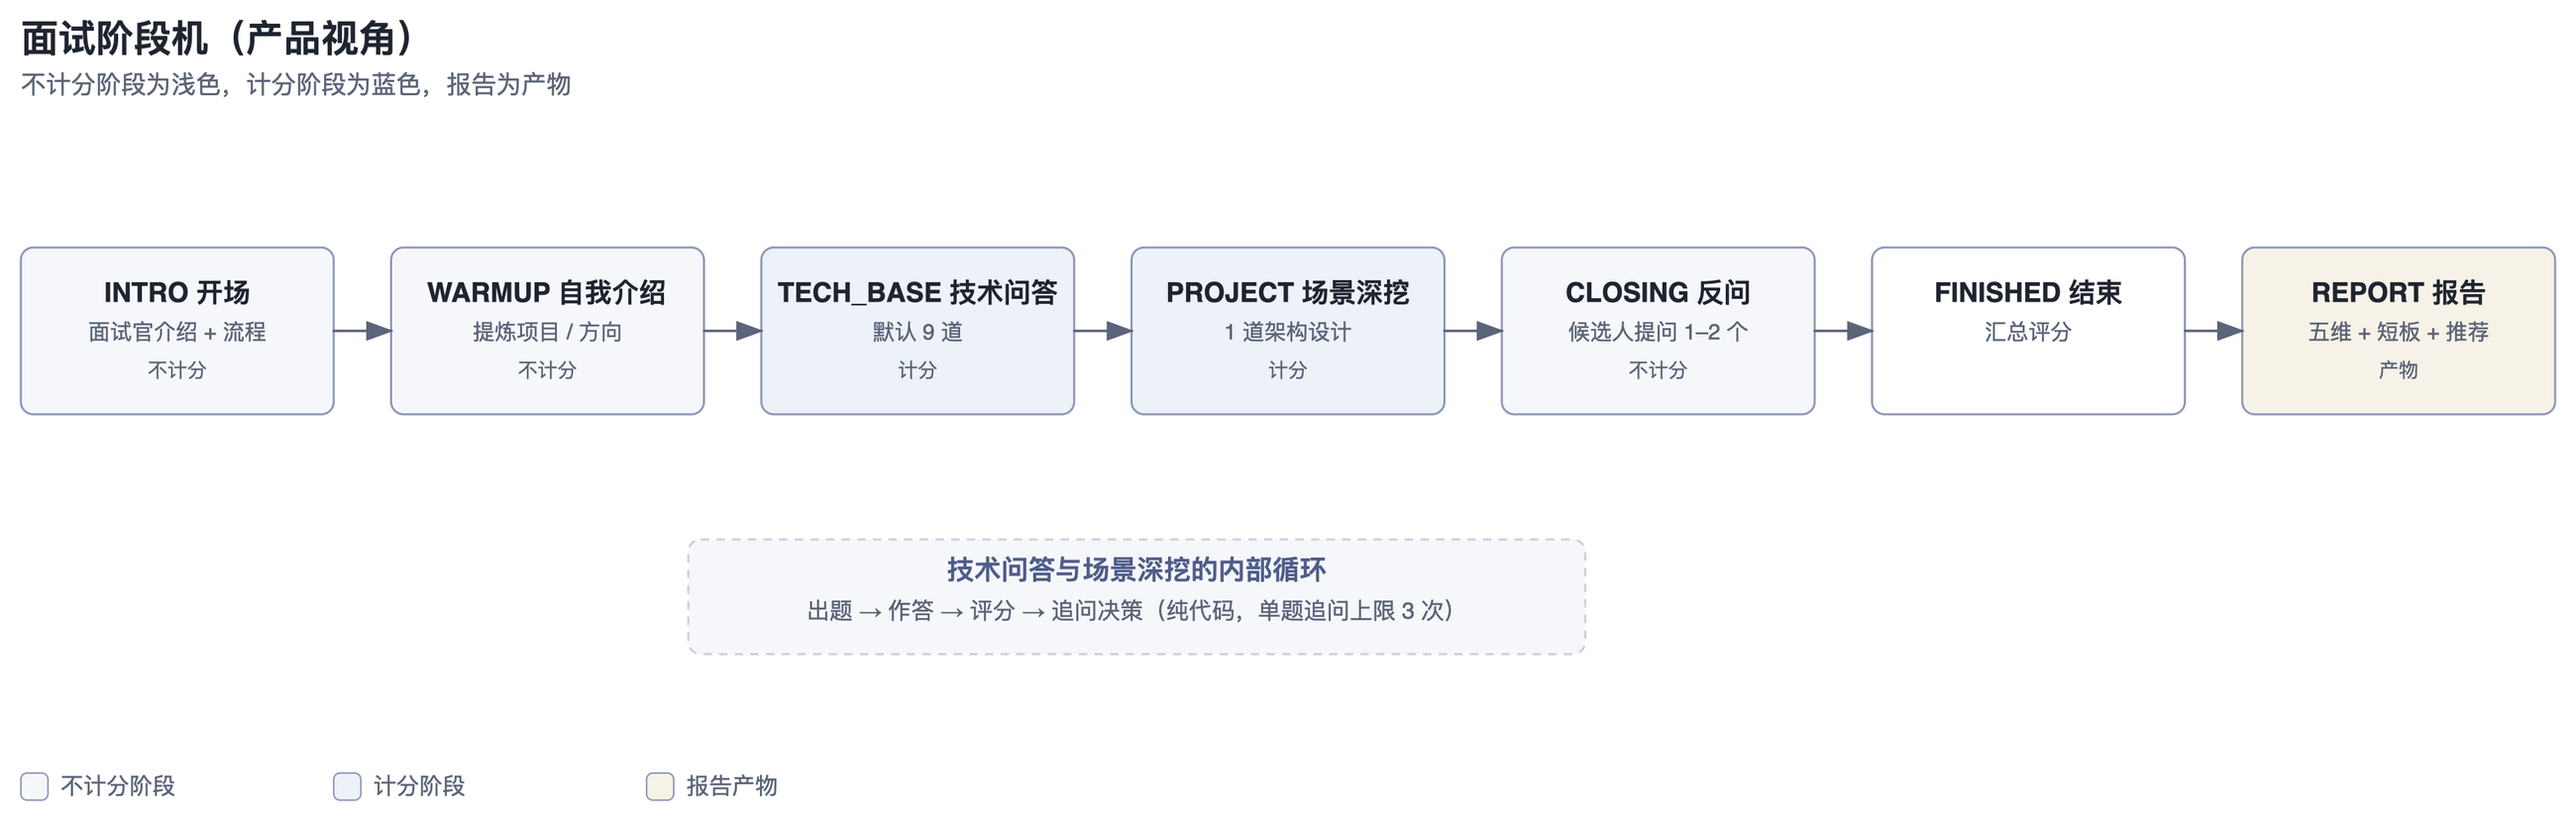
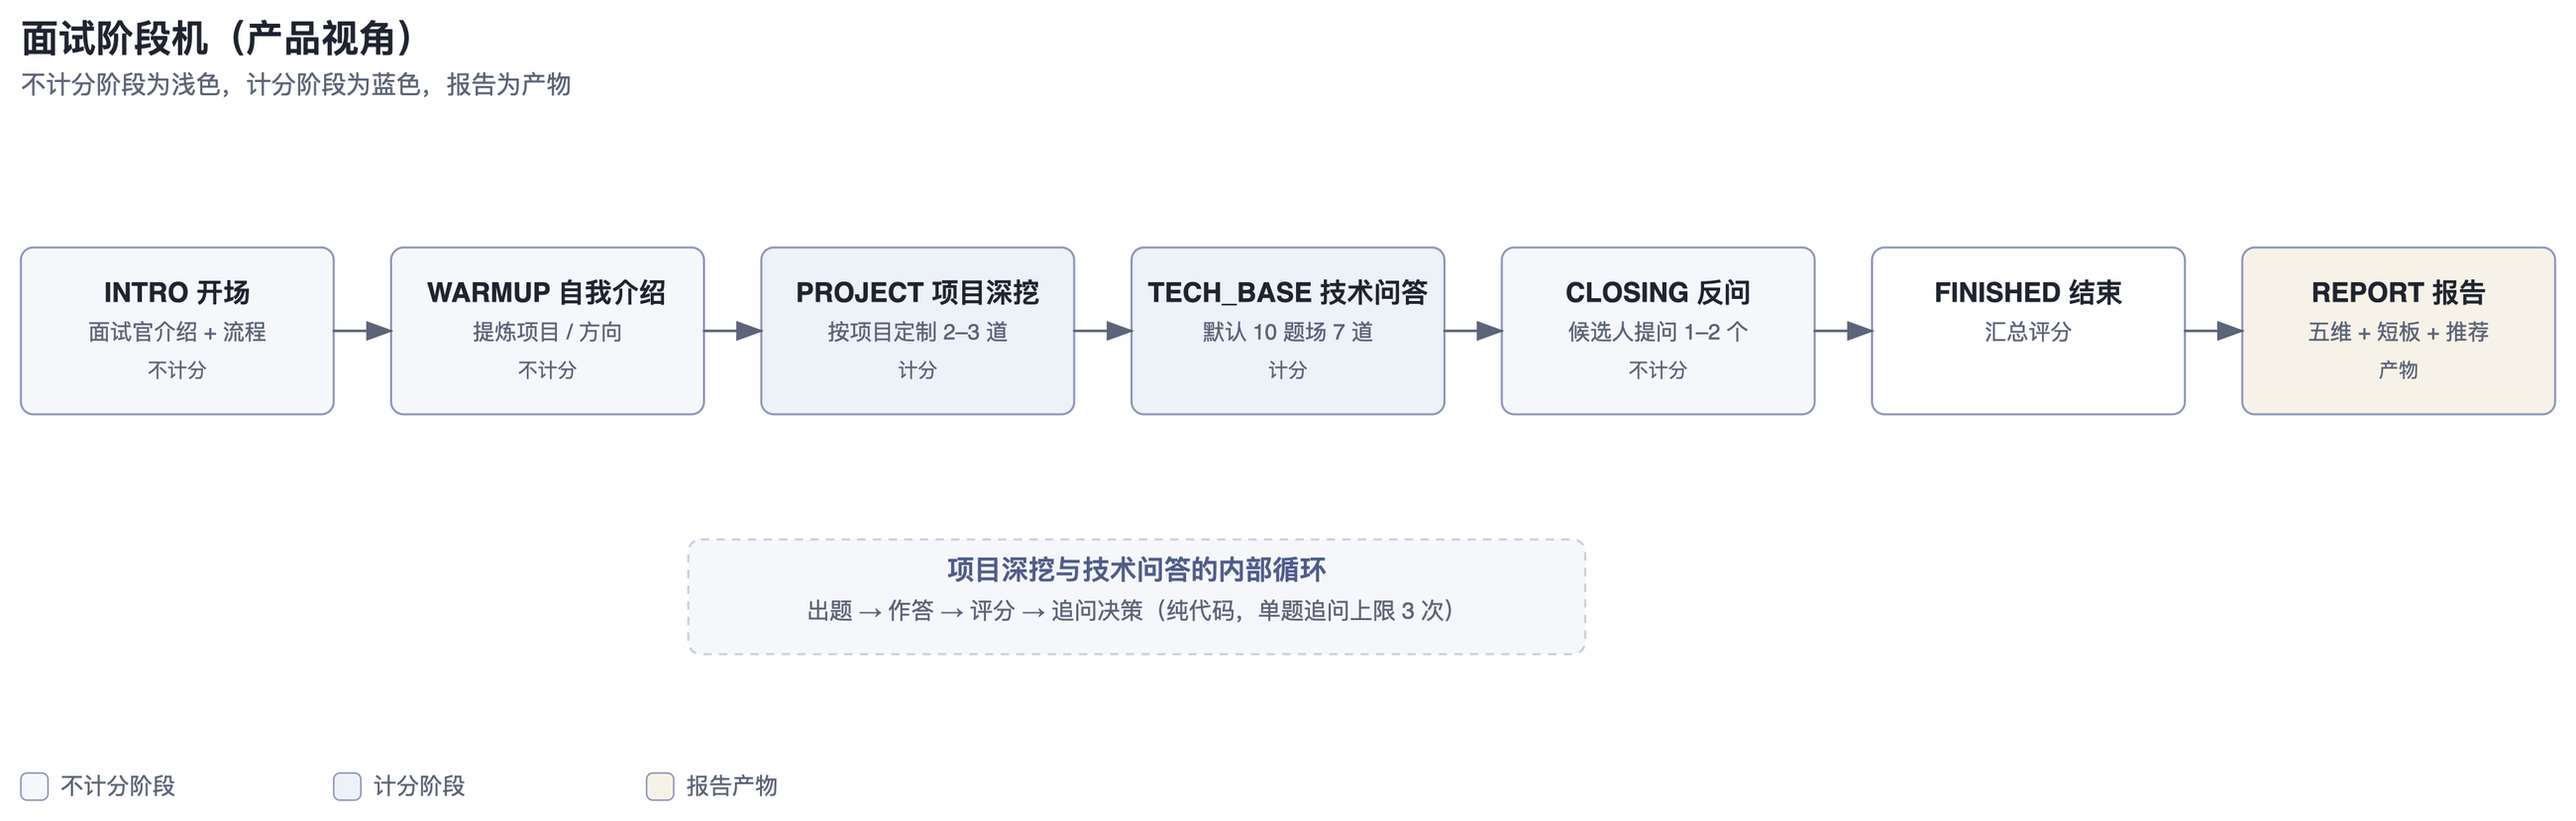
docs: 修正面试阶段顺序与题目组成
- 项目深挖在技术问答之前；默认 10 题场约 3 项目 + 7 技术
- PRD 升到 v1.2（2026-11-11）
- 同步更新面试阶段图（SVG + PNG）

Changed region(s): [[0.4362, 0.3317, 0.5608, 0.4222], [0.3115, 0.3317, 0.405, 0.4222], [0.3738, 0.6634, 0.4673, 0.7238]]

diff --git a/docs/PRD.md b/docs/PRD.md
@@ -1,6 +1,6 @@
 # PRD：Marda 码达 — Agent 智能面试学习平台
 
-> 版本 v1.1 ｜ 2026-11-01 ｜ 状态：已交付（阶段 1 / P1 / P2 / M13–M16 / P4）｜ 下游：SPEC
+> 版本 v1.2 ｜ 2026-11-11 ｜ 状态：已交付（阶段 1 / P1 / P2 / M13–M16 / P4）｜ 下游：SPEC
 >
 > 本文档只写「要什么」与「验收什么」；实现口径见 [SPEC](spec/SPEC.md)，过程记录见 [里程碑](里程碑.md)。
 
@@ -68,8 +68,8 @@
 
 | 编号 | 需求 | 说明 |
 | --- | --- | --- |
-| FR-01 | 创建面试 | 选择岗位方向（阶段 1：Agent/AI 工程师）、题量（**全场问答轮次**，默认 10 轮，可选 5/10/15；内部组成 9 技术 + 1 场景由引擎决定，不对用户暴露）、开始按钮；需登录（阶段 1 为单用户无登录，账号见 FR-23） |
-| FR-02 | 五阶段面试流程 | 开场说明 → 自我介绍评估 → 技术问答 → 场景/项目深挖 → 反问与收尾（§4.1） |
+| FR-01 | 创建面试 | 选择岗位方向（阶段 1：Agent/AI 工程师）、题量（**全场问答轮次**，默认 10 轮，可选 5/10/15；内部组成为项目深挖 + 技术问答，由引擎决定——默认 10 题场约 3 项目 + 7 技术，不对用户暴露）、开始按钮；需登录（阶段 1 为单用户无登录，账号见 FR-23） |
+| FR-02 | 五阶段面试流程 | 开场说明 → 自我介绍评估 → 项目/场景深挖 → 技术问答 → 反问与收尾（§4.1） |
 | FR-03 | 自主出题 | 按能力模型（知识域 × 难度）从题库选题，优先未问过的题；题库无合适题时 LLM 生成（标记为草稿，不入正式库） |
 | FR-04 | 动态追问 | 按追问决策规则（§4.2）对回答进行追问或换题 |
 | FR-05 | 断线续面 | 面试中途刷新/断网后，回到原题继续，不丢历史 |
@@ -143,9 +143,9 @@
 | 阶段 | 行为 | 计分 |
 | --- | --- | --- |
 | INTRO 开场 | 面试官自我介绍 + 流程说明，约 3 句话 | 不计 |
-| WARMUP 自我介绍 | 候选人自我介绍 → 面试官提炼项目经历（供场景题定制追问） | 不计 |
-| TECH_BASE 技术问答 | 按能力模型出技术题（默认 9 道，= 轮次 − 1 场景题），每题走“出题→作答→评分→追问决策”循环 | 计 |
-| PROJECT 场景深挖 | 1 道高阶场景架构设计题，结合候选人项目经历，允许多轮追问 | 计 |
+| WARMUP 自我介绍 | 候选人自我介绍 → 面试官提炼项目经历（供项目深挖定制） | 不计 |
+| PROJECT 项目深挖 | 结合候选人项目经历定制 2–3 道项目深挖题（默认 10 题场 3 道），可多轮追问 | 计 |
+| TECH_BASE 技术问答 | 按能力模型出技术题（默认 10 题场 7 道 = 轮次 − 项目题），每题走“出题→作答→评分→追问决策”循环 | 计 |
 | CLOSING 反问 | 候选人向面试官提问 1-2 个，面试官作答 | 不计 |
 | FINISHED→REPORT | 汇总评分 → 报告生成 | — |
 
@@ -244,7 +244,7 @@
 **验收标准（全部满足才算阶段 1 完成）**：
 
 1. 题库 ≥100 题结构化入库（来源：个人题库 md/xmind 两格式解析，PDF 因合规否决），字段完整率 ≥95%，解析脚本有单测；
-2. 默认配置 **10 轮问答**（内部组成 9 技术 + 1 场景，组成是引擎事务）完整跑通一场面试，全程流式，无中断；
+2. 默认配置 **10 轮问答**（内部组成约 3 项目深挖 + 7 技术题，组成是引擎事务）完整跑通一场面试，全程流式，无中断；
 3. 追问行为符合 §4.2 规则表——全部状态转移有单测覆盖并通过；
 4. 面试中途刷新页面可续面（回到原题，历史不丢）；
 5. 每场面试生成报告：五维评分 + 逐题点评 + 短板定位，数据与面试记录一致；

diff --git a/README.md b/README.md
@@ -17,7 +17,7 @@
 ## 能做什么
 
 - **像真面试一样追问**：LangGraph 五阶段状态机维护整场会话（5 / 10 / 15 轮，断线可续、草稿刷新不丢）；阶段推进、轮数上限、追问与换题决策、难度升降全部是纯代码规则，可解释、可单测、可回放。LLM 只负责出题、评分与追问文案。
-- **一场面试的完整链路**：创建（技术面 / 行为面，可选简历预填；同一份简历只解析一次）→ 开场、自我介绍、技术问答、项目深挖、反问 → 五维报告（含 PDF 导出）、短板定位、学习推荐、能力档案。
+- **一场面试的完整链路**：创建（技术面 / 行为面，可选简历预填；同一份简历只解析一次）→ 开场、自我介绍、项目深挖、技术问答、反问 → 五维报告（含 PDF 导出）、短板定位、学习推荐、能力档案。
 - **RAG 是 Agent 的工具**：出题走「题库检索 → 难度放宽 → LLM 生成」三级降级；混合检索 = dense + sparse 服务端 RRF + 按查询形态开关的 rerank。
 - **多种输入通道**：文字、语音（豆包流式 ASR + edge-tts，附带语速 / 长停顿 / 口头禅复盘）、截图（视觉评分）；摄像头是 UI 模拟：帧不上传、不落库、AI 不看。右栏另有白板与代码工作台：白板走图片通道，代码工作台独立于状态机（v1 不打分、不执行、不落库）。
 - **可复盘、可观测**：决策回放 + 节点时间线；一次面试 = 一个 Langfuse trace，成本按场次读回。
